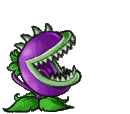
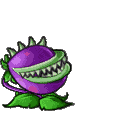
修改圖片素材

diff --git a/src/Factory/AnimationFactory.cpp b/src/Factory/AnimationFactory.cpp
@@ -273,9 +273,9 @@ std::shared_ptr<Util::Animation> AnimationFactory::CreateChomperIdle(){
 
 std::shared_ptr<Util::Animation> AnimationFactory::CreateChomperAttack(){
     std::vector<std::string> paths;
-    paths.reserve(9);
+    paths.reserve(5);
 
-    for (int i = 0; i <= 8; ++i) {
+    for (int i = 0; i <= 4; ++i) {
         paths.push_back(RESOURCE_DIR "/graphics/Plants/Chomper/ChomperAttack/ChomperAttack_" + std::to_string(i) + ".png");
     }
 
